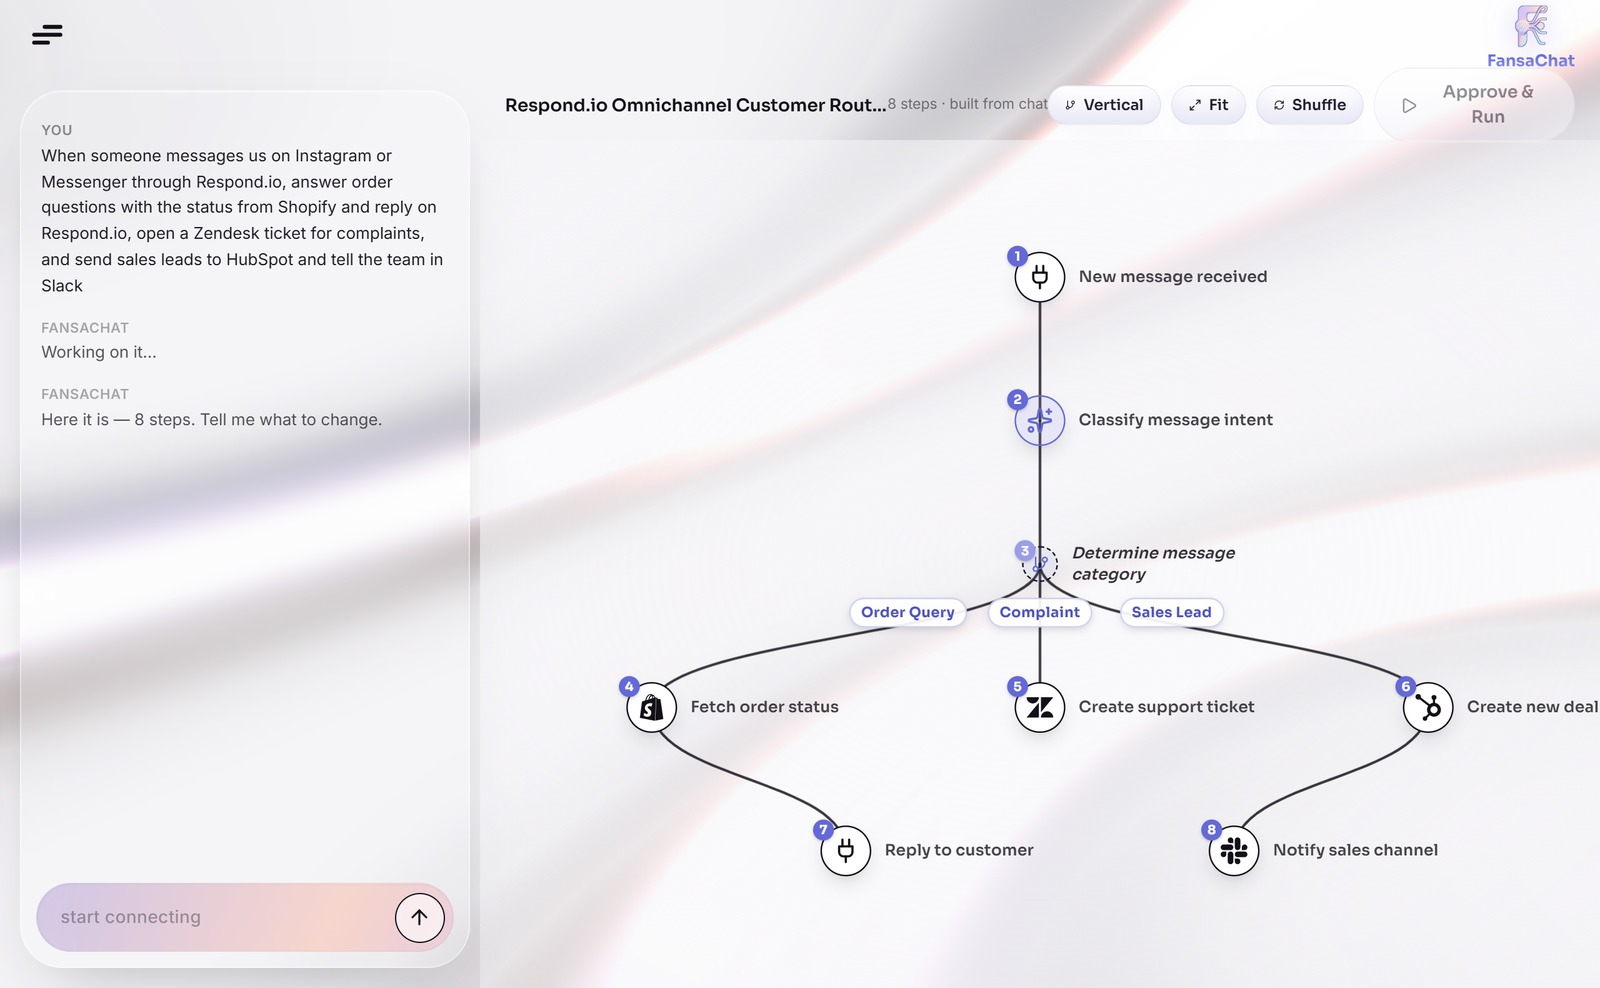
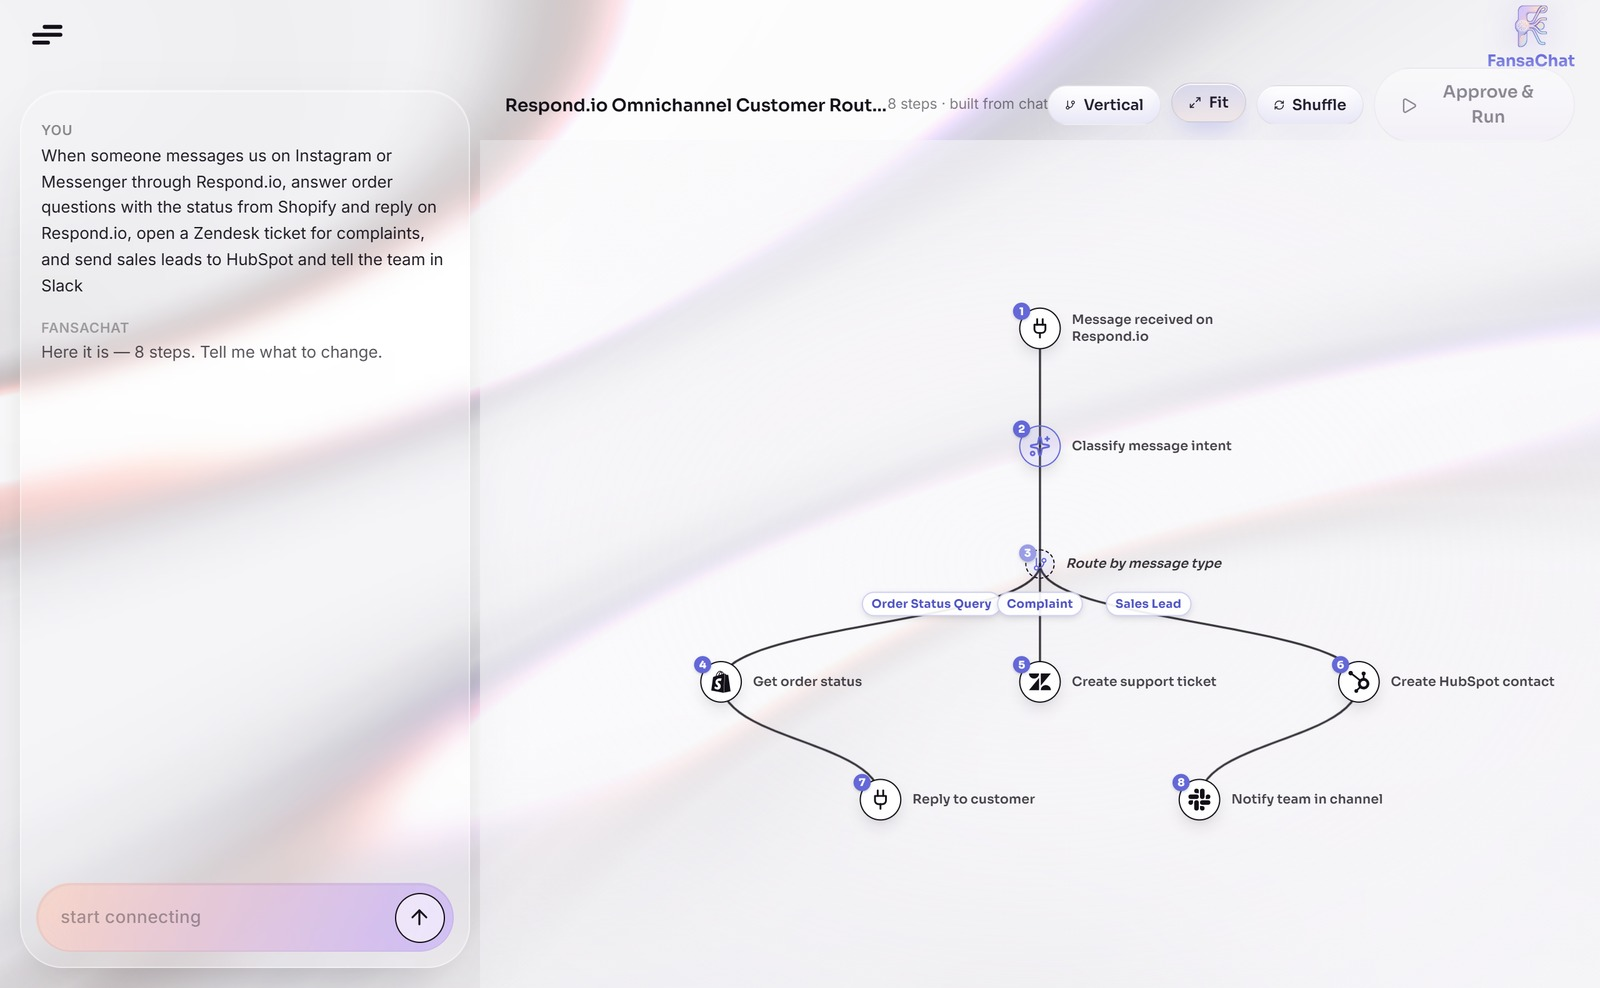
glass5 C01: 4:5 Instagram layout + new real screenshot (fixed builder branches)

diff --git a/glass5/campaign.py b/glass5/campaign.py
@@ -21,7 +21,7 @@ CSS = f"""
 @font-face{{font-family:Inter;font-weight:500;src:url({F('InterTight-500.woff2')})}}
 @font-face{{font-family:Inter;font-weight:700;src:url({F('InterTight-700.woff2')})}}
 *{{box-sizing:border-box;margin:0;padding:0}}
-body{{width:{W}px;height:{H}px;overflow:hidden;position:relative;font-family:Inter;font-weight:500;color:{INK};
+body{{width:100vw;height:100vh;overflow:hidden;position:relative;font-family:Inter;font-weight:500;color:{INK};
   background:radial-gradient(900px 700px at 1150px 380px,#FFFFFF 0%,#EEEEF6 45%,#DCDDEA 100%)}}
 .abs{{position:absolute}}
 .grain{{position:absolute;inset:0;pointer-events:none;opacity:.12;mix-blend-mode:multiply;
@@ -95,14 +95,63 @@ BODY = f"""<body>
  <span data-rank="5" style="font-size:12px;letter-spacing:.06em;color:#9C9DBC">Instagram &amp; Messenger connect via Respond.io</span></div>
 </body>"""
 
+def chip(apps, text):
+    icons = "".join(f'<span class="ico" style="width:34px;height:34px"><img src="{I(a)}"></span>' for a in apps)
+    return (f'<div style="display:flex;align-items:center;gap:12px;height:52px;border-bottom:1px solid rgba(43,34,102,.12)">'
+            f'<div style="display:flex;gap:4px;width:110px">{icons}</div><div data-rank="5" style="font-size:20px;color:{DEEP}">{text}</div></div>')
+
+# 4:5 Instagram version: same campaign, stacked (hook -> answer -> real device -> 5 steps -> CTA bar)
+BODY45 = f"""<body style="background:radial-gradient(800px 700px at 540px 720px,#FFFFFF 0%,#EEEEF6 45%,#DCDDEA 100%)">
+<svg class="abs" style="left:0;top:0" width="1080" height="1350">
+ <defs><linearGradient id="ring" x1="0" y1="0" x2="1" y2="1"><stop offset="0" stop-color="#FFFFFF"/><stop offset=".5" stop-color="{SIL}"/><stop offset="1" stop-color="#F4F4FA"/></linearGradient>
+  <filter id="glow"><feGaussianBlur stdDeviation="14"/></filter></defs>
+ {''.join(f'<circle cx="540" cy="720" r="{r}" fill="none" stroke="rgba(123,92,224,{o})" stroke-width="1.5"/>' for r, o in [(440, .10), (510, .07), (590, .05)])}
+ <circle cx="540" cy="720" r="330" fill="none" stroke="{VIO}" stroke-width="22" opacity=".55" filter="url(#glow)"/>
+ <circle cx="540" cy="720" r="330" fill="none" stroke="url(#ring)" stroke-width="40"/>
+ <circle cx="540" cy="720" r="312" fill="none" stroke="rgba(160,140,255,.9)" stroke-width="3"/>
+ <ellipse cx="540" cy="958" rx="420" ry="24" fill="url(#ring)" stroke="#fff" stroke-width="2"/>
+ <ellipse cx="540" cy="952" rx="320" ry="10" fill="{VIO}" opacity=".35" filter="url(#glow)"/>
+</svg>
+<div class="grain"></div>
+<div class="abs" style="left:56px;top:48px;display:flex;align-items:center;gap:12px"><img src="{LOGO}" style="width:40px;height:40px">
+ <span data-rank="5" style="font-family:Sora;font-weight:300;font-size:18px;letter-spacing:.28em;color:{DEEP}">FANSACHAT</span></div>
+<div class="abs" data-rank="5" style="left:56px;top:112px;width:968px;font-size:14px;font-weight:700;letter-spacing:.08em;white-space:nowrap;color:{VIO}">FOR CUSTOMER SUPPORT AGENTS · SOCIAL MEDIA MANAGERS · AGENCIES · SHOPS</div>
+<div class="abs" data-rank="1" style="left:52px;top:146px;width:980px;font-family:Sora;font-weight:300;font-size:84px;line-height:1.04;letter-spacing:.02em;color:{INK}">ANSWERING DMs<br>
+ <span style="font-weight:700;background:linear-gradient(90deg,{VIO},{MAIN});-webkit-background-clip:text;background-clip:text;color:transparent">ALL DAY?</span></div>
+<div class="abs" data-rank="2" style="left:56px;top:338px;width:968px;font-family:DMSerif;font-size:38px;line-height:1.16;color:{INK}">Here's how to run <span style="background:linear-gradient(transparent 58%,#D9CFFF 58%,#D9CFFF 92%,transparent 92%);color:{DEEP}">Instagram &amp; Messenger</span> on autopilot.</div>
+<div class="abs" style="left:80px;top:470px;width:920px;height:476px;border-radius:48px;
+  background:linear-gradient(170deg,#FFFFFF,#E4E5EF 60%,#CFD0DE);box-shadow:inset 0 2px 0 #fff,inset 0 -6px 14px rgba(43,34,102,.12),0 40px 60px rgba(43,34,102,.30)">
+ <div class="abs" style="left:18px;top:223px;width:30px;height:30px;border-radius:50%;background:radial-gradient(circle at 40% 35%,#55557a,#1d1d33);box-shadow:0 0 0 4px #fff,0 0 16px {VIO}"></div>
+ <div class="abs" style="left:872px;top:223px;width:30px;height:30px;border-radius:50%;background:radial-gradient(circle at 40% 35%,#55557a,#1d1d33);box-shadow:0 0 0 4px #fff,0 0 16px {VIO}"></div>
+ <div class="abs" style="left:62px;top:26px;width:796px;height:424px;border-radius:20px;background:{NIGHT};overflow:hidden;box-shadow:inset 0 0 0 2px #0A0A1A">{screen}</div>
+</div>
+<div class="abs" style="left:540px;top:992px;transform:translateX(-50%);font-family:Sora;font-weight:300;font-size:14px;letter-spacing:.24em;white-space:nowrap;color:#8A8BA6">REAL SCREENSHOT · BUILT FROM ONE SENTENCE</div>
+<div class="abs" style="left:56px;top:1022px;width:968px;display:grid;grid-template-columns:1fr 1fr;column-gap:28px">
+ {chip(['instagram-business', 'facebook-pages', 'respond-io'], 'DMs arrive via Respond.io')}
+ {chip(['fansa'], 'AI sorts: order, complaint, sale')}
+ {chip(['shopify', 'respond-io'], 'Order status sent back')}
+ {chip(['zendesk'], 'Complaints → Zendesk ticket')}
+ {chip(['hubspot', 'slack'], 'Leads → HubSpot + Slack')}
+ {chip(['fansa'], 'Built from one sentence')}
+</div>
+<div class="abs" style="left:0;top:1206px;width:1080px;height:144px;background:{NIGHT};padding:22px 56px 0">
+ <div style="display:flex;justify-content:space-between;align-items:center">
+  <div data-rank="3" style="font-family:Sora;font-weight:700;font-size:36px;letter-spacing:.1em;color:#fff">JOIN THE WAITLIST</div>
+  <div data-rank="5" style="font-size:12px;font-weight:700;letter-spacing:.18em;color:#CFC4FF;border:1.5px solid #CFC4FF;border-radius:99px;padding:5px 14px">EARLY ACCESS</div></div>
+ <div data-rank="5" style="font-family:Sora;font-weight:300;font-size:14px;letter-spacing:.16em;color:#CFCFE6;margin-top:10px;white-space:nowrap">LAUNCHING NOVEMBER 2026 · 700+ APPS · 478 TEMPLATES · FANSACHAT.COM</div>
+ <div data-rank="5" style="font-size:12px;color:#9C9DBC;margin-top:10px">Instagram &amp; Messenger connect via Respond.io</div></div>
+</body>"""
+
 NAME = "instagram-messenger-dm-automation-customer-support-fansachat"
 allowed = {str(k): list(range(10, 400)) for k in range(1, 6)}  # free type scale for this layout; QA keeps overlap/cover/fonts/safe-zone
+lines = []
 with sync_playwright() as pw:
     br = pw.chromium.launch(channel=os.environ.get("PW_CHANNEL") or None)
-    f = OUT / f"{NAME}.html"; f.write_text(f"<!doctype html><html><head><meta charset=utf-8><style>{CSS}</style></head>{BODY}</html>", encoding="utf-8")
-    pg = br.new_page(viewport={"width": W, "height": H}, device_scale_factor=2); pg.goto(f.as_uri()); pg.evaluate("document.fonts.ready"); pg.wait_for_timeout(600)
-    pg.screenshot(path=str(OUT / f"{NAME}.png"))
-    res = pg.evaluate(QA, [12, allowed, W, H]); br.close()
-line = f"{NAME}: fonts {res['fonts']} · {'PASS' if not res['issues'] else 'FAIL ' + '; '.join(res['issues'])}"
-print(line); (OUT / "QA_campaign.txt").write_text(line, encoding="utf-8")
-sys.exit(1 if res["issues"] else 0)
+    for name, w, h, body in [(NAME, W, H, BODY), (NAME + "-4x5", 1080, 1350, BODY45)]:
+        f = OUT / f"{name}.html"; f.write_text(f"<!doctype html><html><head><meta charset=utf-8><style>{CSS}</style></head>{body}</html>", encoding="utf-8")
+        pg = br.new_page(viewport={"width": w, "height": h}, device_scale_factor=2); pg.goto(f.as_uri()); pg.evaluate("document.fonts.ready"); pg.wait_for_timeout(600)
+        pg.screenshot(path=str(OUT / f"{name}.png"))
+        res = pg.evaluate(QA, [12, allowed, w, h]); pg.close()
+        lines.append(f"{name}: fonts {res['fonts']} · {'PASS' if not res['issues'] else 'FAIL ' + '; '.join(res['issues'])}")
+    br.close()
+print(chr(10).join(lines)); (OUT / "QA_campaign.txt").write_text(chr(10).join(lines), encoding="utf-8")
